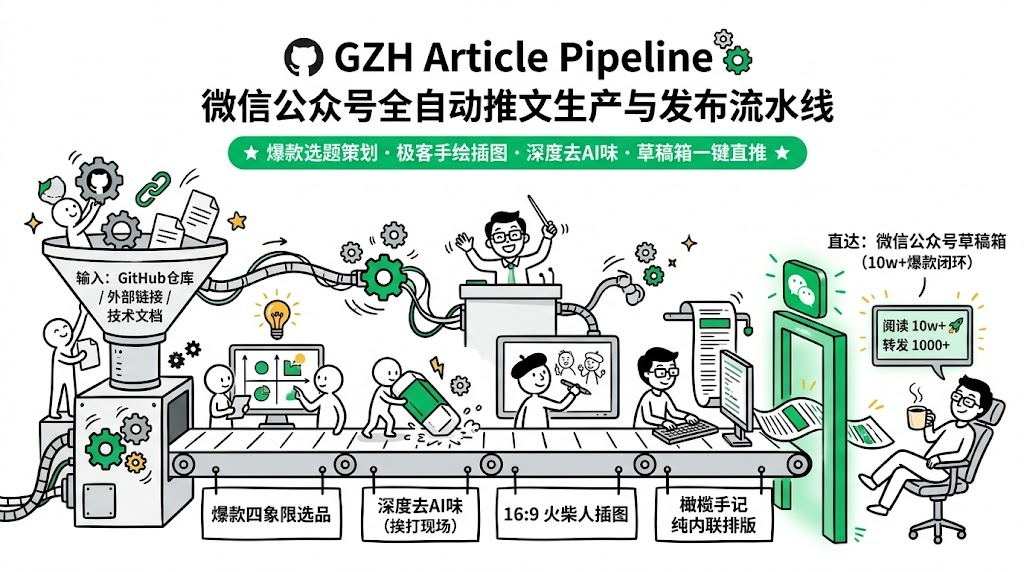
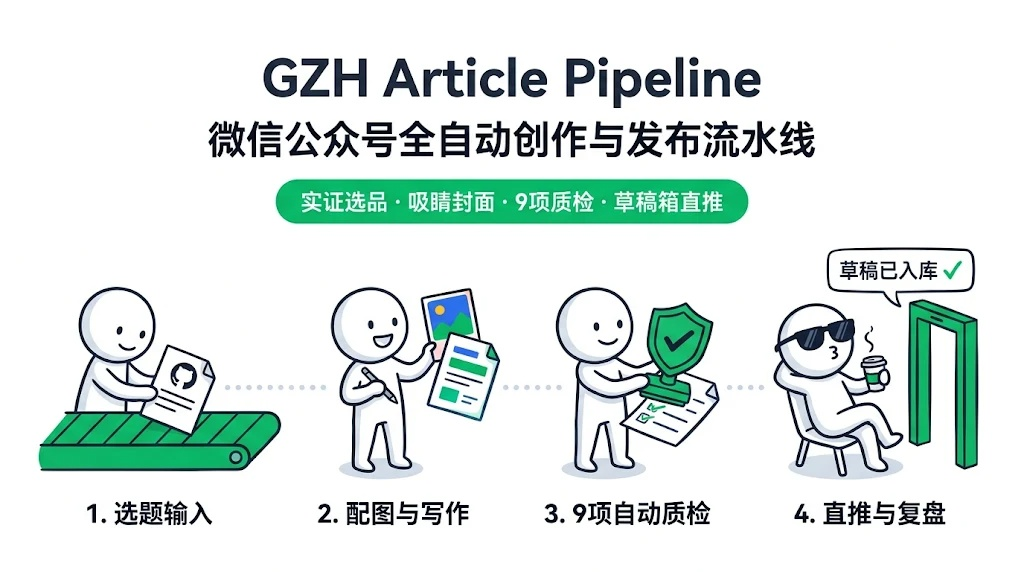
docs(assets): 全套重绘纯白底高清火柴人介绍图与架构图，清理遗留旧图

diff --git a/README.md b/README.md
@@ -58,11 +58,11 @@
 
 ![核心工作流：双轨驱动架构](assets/workflow-architecture.jpg)
 
-| 调度指挥家 (编排思想) | 四步时序排障 (方法论) |
+| 实证选品与 100 分标题门禁 | 21:9 封面与 429 自动容灾 |
 | :---: | :---: |
-| <img src="assets/01-agent-orchestration.jpg" width="100%" alt="调度指挥家" style="border-radius: 6px;" /> | <img src="assets/02-four-step-diagnosis.jpg" width="100%" alt="四步时序排障" style="border-radius: 6px;" /> |
-| **证据链拼图 (排障质感)** | **六层控制塔 (系统架构)** |
-| <img src="assets/03-evidence-chain.jpg" width="100%" alt="证据链拼图" style="border-radius: 6px;" /> | <img src="assets/04-six-layer-architecture.jpg" width="100%" alt="六层控制塔" style="border-radius: 6px;" /> |
+| <img src="assets/01-topic-gate.jpg" width="100%" alt="实证选品与100分标题门禁" style="border-radius: 6px;" /> | <img src="assets/02-visual-429.jpg" width="100%" alt="21:9封面与429自动容灾" style="border-radius: 6px;" /> |
+| **短节奏排版与 9 项自动质检** | **免密钥直连后台复盘飞轮** |
+| <img src="assets/03-quality-validator.jpg" width="100%" alt="短节奏排版与9项自动质检" style="border-radius: 6px;" /> | <img src="assets/04-closed-loop-review.jpg" width="100%" alt="免密钥直连后台复盘飞轮" style="border-radius: 6px;" /> |
 
 ---
 
